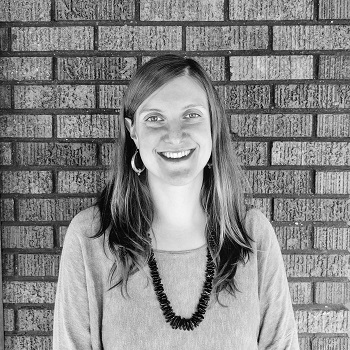
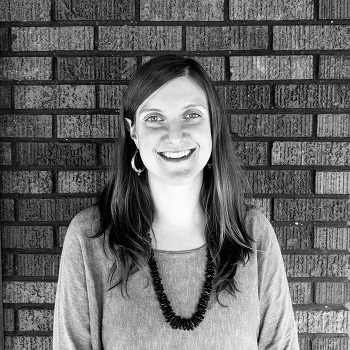
Updated photo name to remove space

diff --git a/index.html b/index.html
@@ -23,7 +23,7 @@
   </ul>
 </nav>
 </header>
-<img src="image/katie-bw-square-350 (2).jpg"
+<img src="image/katie-bw-square-350.jpg"
   alt="Photo of Katie."/>
 <main id="content">
   <article>
@@ -33,7 +33,10 @@
         Illinois Institute of Technology in the
         <a href="http://library.iit.edu">Paul V. Galvin Library</a>.
         I try to make the library's services and spaces more responsive to
-        everyone's needs. As a librarian I spend a lot of my time helping people
+        everyone's needs.
+      </p>
+      <p>
+        As a librarian I spend a lot of my time helping people
         connect with and understand technology. At IIT, and previously at Northeastern
         Illinois University, I use <a href="https://www.drupal.org/">Drupal</a> to
         manage the library's web presence.
